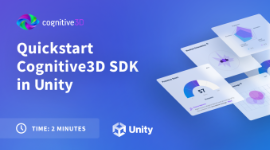
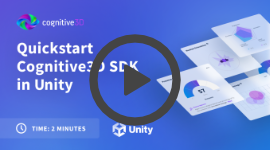
added organization name in project setup
added play symbol to video image
added blue gear icon
removed unused icons

Changed region(s): [[0.3259, 0.2133, 0.6815, 0.8533], [0.4444, 0.4267, 0.563, 0.64]]

diff --git a/Editor/ProjectSetupWindow.cs b/Editor/ProjectSetupWindow.cs
@@ -252,7 +252,14 @@ namespace Cognitive3D
         }
 
         [System.Serializable]
-        private class SubscriptionResponseData
+        private class OrganizationData
+        {
+            public string organizationName;
+            public SubscriptionData[] subscriptions;
+        }
+
+        [System.Serializable]
+        private class SubscriptionData
         {
             public long beginning;
             public long expiration;
@@ -275,18 +282,23 @@ namespace Cognitive3D
                 return;
             }
 
-            SubscriptionResponseData[] data = Util.GetJsonArray<SubscriptionResponseData>(text);
-            if (data == null || data.Length == 0)
+            OrganizationData organizationDetails = JsonUtility.FromJson< OrganizationData>(text);
+            if (organizationDetails == null)
             {
                 Debug.LogError("GetSubscriptionResponse data is null or invalid. Please get in touch");
             }
             else
             {
-                foreach(var v in data)
+                OrganizationName = organizationDetails.organizationName;
+                if (organizationDetails.subscriptions.Length == 0)
                 {
-                    SubscriptionPlan = v.planType;
-                    SubscriptionTrial = v.isFreeTrial;
-                    SubscriptionExpirationDateLong = v.expiration;
+                    SubscriptionPlan = "No Subscription";
+                }
+                else
+                {
+                    SubscriptionPlan = organizationDetails.subscriptions[0].planType;
+                    SubscriptionTrial = organizationDetails.subscriptions[0].isFreeTrial;
+                    SubscriptionExpirationDateLong = organizationDetails.subscriptions[0].expiration;
                 }
             }
         }

diff --git a/Editor/EditorCore.cs b/Editor/EditorCore.cs
@@ -514,18 +514,7 @@ namespace Cognitive3D
                 return _searchIcon;
             }
         }
-        private static Texture2D _searchIconBlue;
-        public static Texture2D SearchIconBlue
-        {
-            get
-            {
-                if (_searchIconBlue == null)
-                {
-                    _searchIconBlue = Resources.Load<Texture2D>("Icons/search blue");
-                }
-                return _searchIconBlue;
-            }
-        }
+
         private static Texture2D _searchIconwhite;
         public static Texture2D SearchIconWhite
         {
@@ -536,19 +525,6 @@ namespace Cognitive3D
                     _searchIconwhite = Resources.Load<Texture2D>("Icons/search white");
                 }
                 return _searchIconwhite;
-            }
-        }
-
-        private static Texture2D _sceneHighlight;
-        public static Texture2D SceneHighlight
-        {
-            get
-            {
-                if (_sceneHighlight == null)
-                {
-                    _sceneHighlight = Resources.Load<Texture2D>("scene_blue");
-                }
-                return _sceneHighlight;
             }
         }
 
@@ -650,7 +626,7 @@ namespace Cognitive3D
             {
                 if (_settingsIcon == null)
                 {
-                    _settingsIcon = Resources.Load<Texture2D>("Icons/gear");
+                    _settingsIcon = Resources.Load<Texture2D>("Icons/gear blue");
                 }
                 return _settingsIcon;
             }

diff --git a/Editor/SceneSetupWindow.cs b/Editor/SceneSetupWindow.cs
@@ -56,10 +56,6 @@ namespace Cognitive3D
             GUI.skin = EditorCore.WizardGUISkin;
             GUI.DrawTexture(new Rect(0, 0, 500, 550), EditorGUIUtility.whiteTexture);
 
-            var e = Event.current;
-            if (e.type == EventType.KeyDown && e.keyCode == KeyCode.Equals) { currentPage++; }
-            if (e.type == EventType.KeyDown && e.keyCode == KeyCode.Minus) { currentPage--; }
-
             switch (currentPage)
             {
                 case Page.ProjectError:
@@ -287,6 +283,8 @@ namespace Cognitive3D
             //controllers
 #if C3D_STEAMVR2
             GUI.Label(new Rect(30, 200, 440, 440), "The Controllers should have <b>SteamVR Behaviour Pose</b> components", "normallabel");
+#elif C3D_OCULUS
+            GUI.Label(new Rect(30, 200, 440, 440), "The Controllers may have <b>Tracked Pose Driver</b> components", "normallabel");
 #else
             GUI.Label(new Rect(30, 200, 440, 440), "The Controllers should have <b>Tracked Pose Driver</b> components", "normallabel");
 #endif
@@ -612,7 +610,7 @@ namespace Cognitive3D
             }
 
             //texture resolution settings
-            Rect toolsRect = new Rect(360, 440, 35, 35);
+            Rect toolsRect = new Rect(360, 440, 30, 30);
             if (GUI.Button(toolsRect, EditorCore.SettingsIcon,"image_centered")) //rename dropdown
             {
                 GenericMenu gm = new GenericMenu();

diff --git a/Editor/HelpWindow.cs b/Editor/HelpWindow.cs
@@ -327,7 +327,7 @@ namespace Cognitive3D
         void DrawSceneWindowButton()
         {
             Rect buttonrect = new Rect(150, 460, 200, 30);
-            if (GUI.Button(buttonrect, "Scene Setup"))
+            if (GUI.Button(buttonrect, "Open Scene Setup Window"))
             {
                 SceneSetupWindow.Init();
                 //this.Close();
